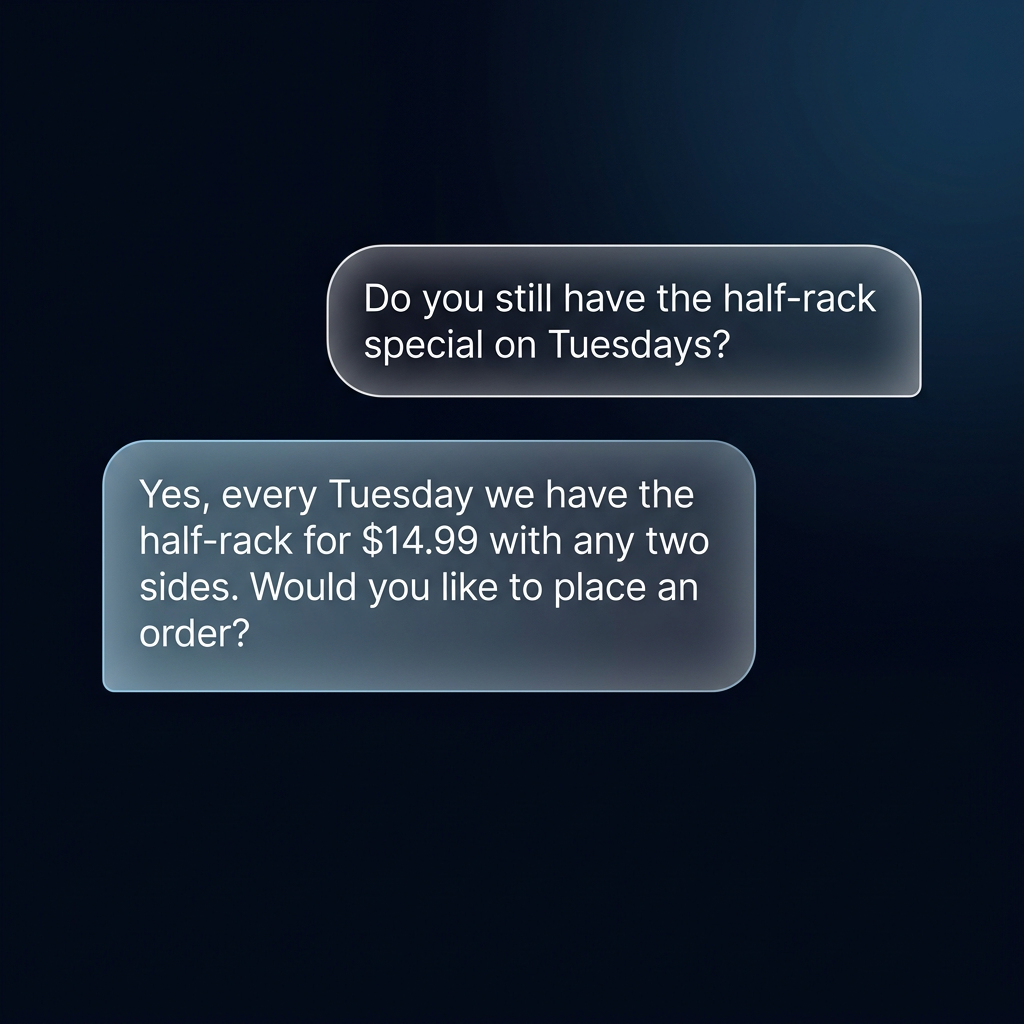
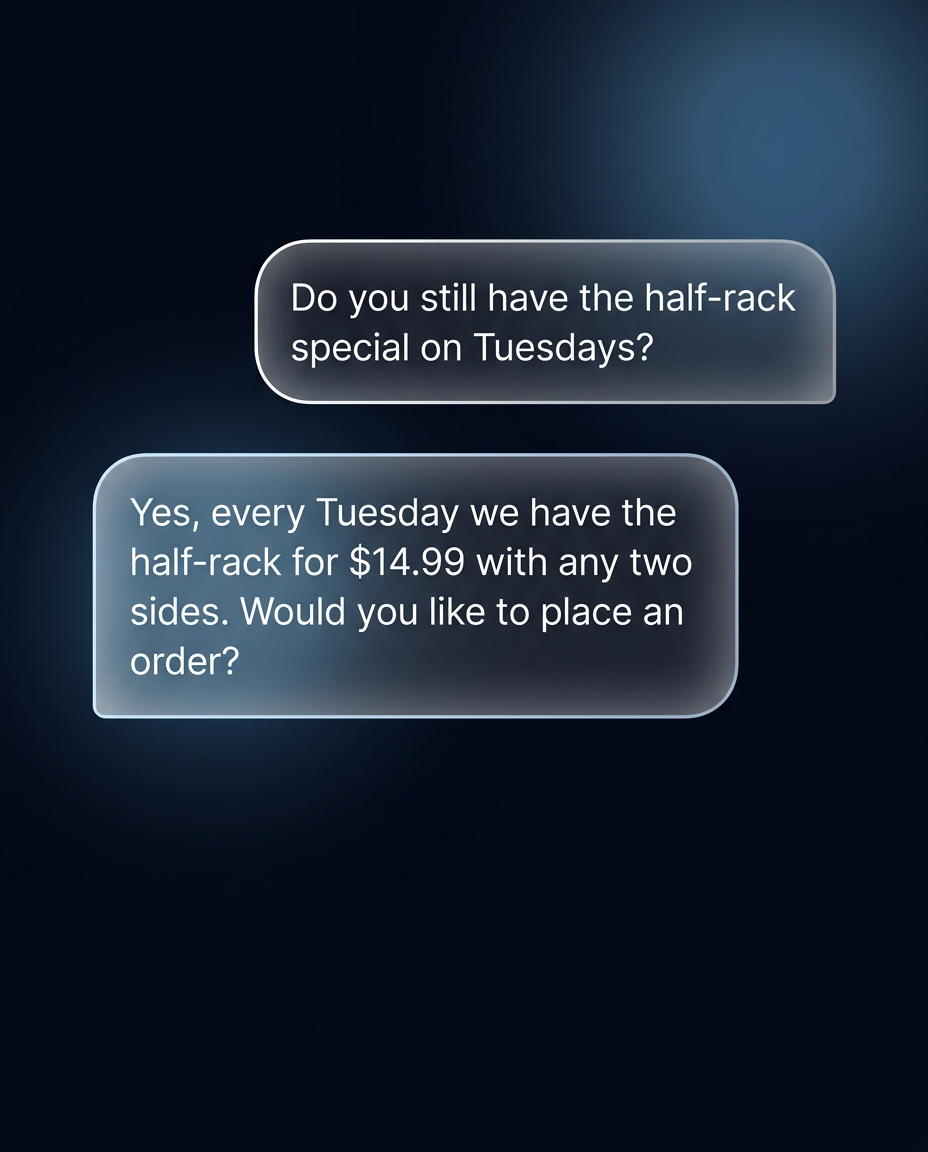
bento done

Changed region(s): [[0.0312, 0.0, 0.9688, 0.6875]]

diff --git a/app/components/HowItWorksSection.js b/app/components/HowItWorksSection.js
@@ -42,7 +42,7 @@ const CARDS = [
 function BentoCard({ image, title, description, className }) {
 	return (
 		<div
-			className={`bento-card relative overflow-hidden rounded-2xl ${className}`}
+			className={`bento-card relative overflow-hidden rounded-3xl ${className}`}
 		>
 			<img
 				src={image}
@@ -75,8 +75,8 @@ function BentoCard({ image, title, description, className }) {
 
 export default function HowItWorksSection() {
 	return (
-		<section className="relative py-24 sm:py-32">
-			<div className="w-full max-w-7xl mx-auto px-5 sm:px-8">
+		<section id="how-it-works" className="relative py-24 sm:py-32">
+			<div className="w-full max-w-7xl mx-auto px-2">
 				{/* Heading */}
 				<div className="text-center mb-12 sm:mb-16">
 					<h2
@@ -90,7 +90,7 @@ export default function HowItWorksSection() {
 						More than a voice.
 					</h2>
 					<p
-						className="text-[#6B7280] text-base sm:text-lg max-w-[520px] mx-auto"
+						className="text-[#6B7280] text-base sm:text-lg mx-auto"
 						style={{
 							fontFamily:
 								'var(--font-inter), system-ui, sans-serif',
@@ -104,35 +104,35 @@ export default function HowItWorksSection() {
 				</div>
 
 				{/* Bento Grid */}
-				<div className="grid grid-cols-1 md:grid-cols-12 gap-4">
+				<div className="grid grid-cols-1 md:grid-cols-12 gap-3">
 					{/* Row 1 */}
 					<BentoCard
 						{...CARDS[0]}
-						className="md:col-span-4 aspect-[4/3] md:aspect-auto md:h-[340px]"
+						className="md:col-span-4 aspect-[4/3] md:aspect-auto md:h-[350px]"
 					/>
 					<BentoCard
 						{...CARDS[1]}
-						className="md:col-span-8 aspect-[4/3] md:aspect-auto md:h-[340px]"
+						className="md:col-span-8 aspect-[4/3] md:aspect-auto md:h-[350px]"
 					/>
 
 					{/* Row 2 */}
 					<BentoCard
 						{...CARDS[2]}
-						className="md:col-span-6 aspect-[4/3] md:aspect-auto md:h-[340px]"
+						className="md:col-span-6 aspect-[4/3] md:aspect-auto md:h-[350px]"
 					/>
 					<BentoCard
 						{...CARDS[3]}
-						className="md:col-span-6 aspect-[4/3] md:aspect-auto md:h-[340px]"
+						className="md:col-span-6 aspect-[4/3] md:aspect-auto md:h-[350px]"
 					/>
 
 					{/* Row 3 */}
 					<BentoCard
 						{...CARDS[4]}
-						className="md:col-span-5 aspect-[4/3] md:aspect-auto md:h-[340px]"
+						className="md:col-span-5 aspect-[4/3] md:aspect-auto md:h-[350px]"
 					/>
 					<BentoCard
 						{...CARDS[5]}
-						className="md:col-span-7 aspect-[4/3] md:aspect-auto md:h-[340px]"
+						className="md:col-span-7 aspect-[4/3] md:aspect-auto md:h-[350px]"
 					/>
 				</div>
 			</div>

diff --git a/app/components/Navbar.js b/app/components/Navbar.js
@@ -27,7 +27,7 @@ export default function Navbar() {
 			<div
 				className="relative w-full transition-all duration-500 ease-out"
 				style={{
-					maxWidth: scrolled ? '1140px' : '1280px',
+					maxWidth: scrolled ? '1280px' : '1400px',
 					margin: scrolled ? '12px auto 0' : '0 auto',
 					borderRadius: scrolled ? '24px' : '0px',
 					padding: scrolled ? '0 8px' : '0 32px',

diff --git a/app/globals.css b/app/globals.css
@@ -133,9 +133,10 @@ html, body {
 .bento-card-overlay {
 	background: linear-gradient(
 		to top,
-		rgba(0, 0, 0, 0.75) 0%,
-		rgba(0, 0, 0, 0.45) 35%,
-		rgba(0, 0, 0, 0) 60%
+		rgba(0, 0, 0, 0.85) 0%,
+		rgba(0, 0, 0, 0.6) 30%,
+		rgba(0, 0, 0, 0.25) 55%,
+		rgba(0, 0, 0, 0) 75%
 	);
 }
 
